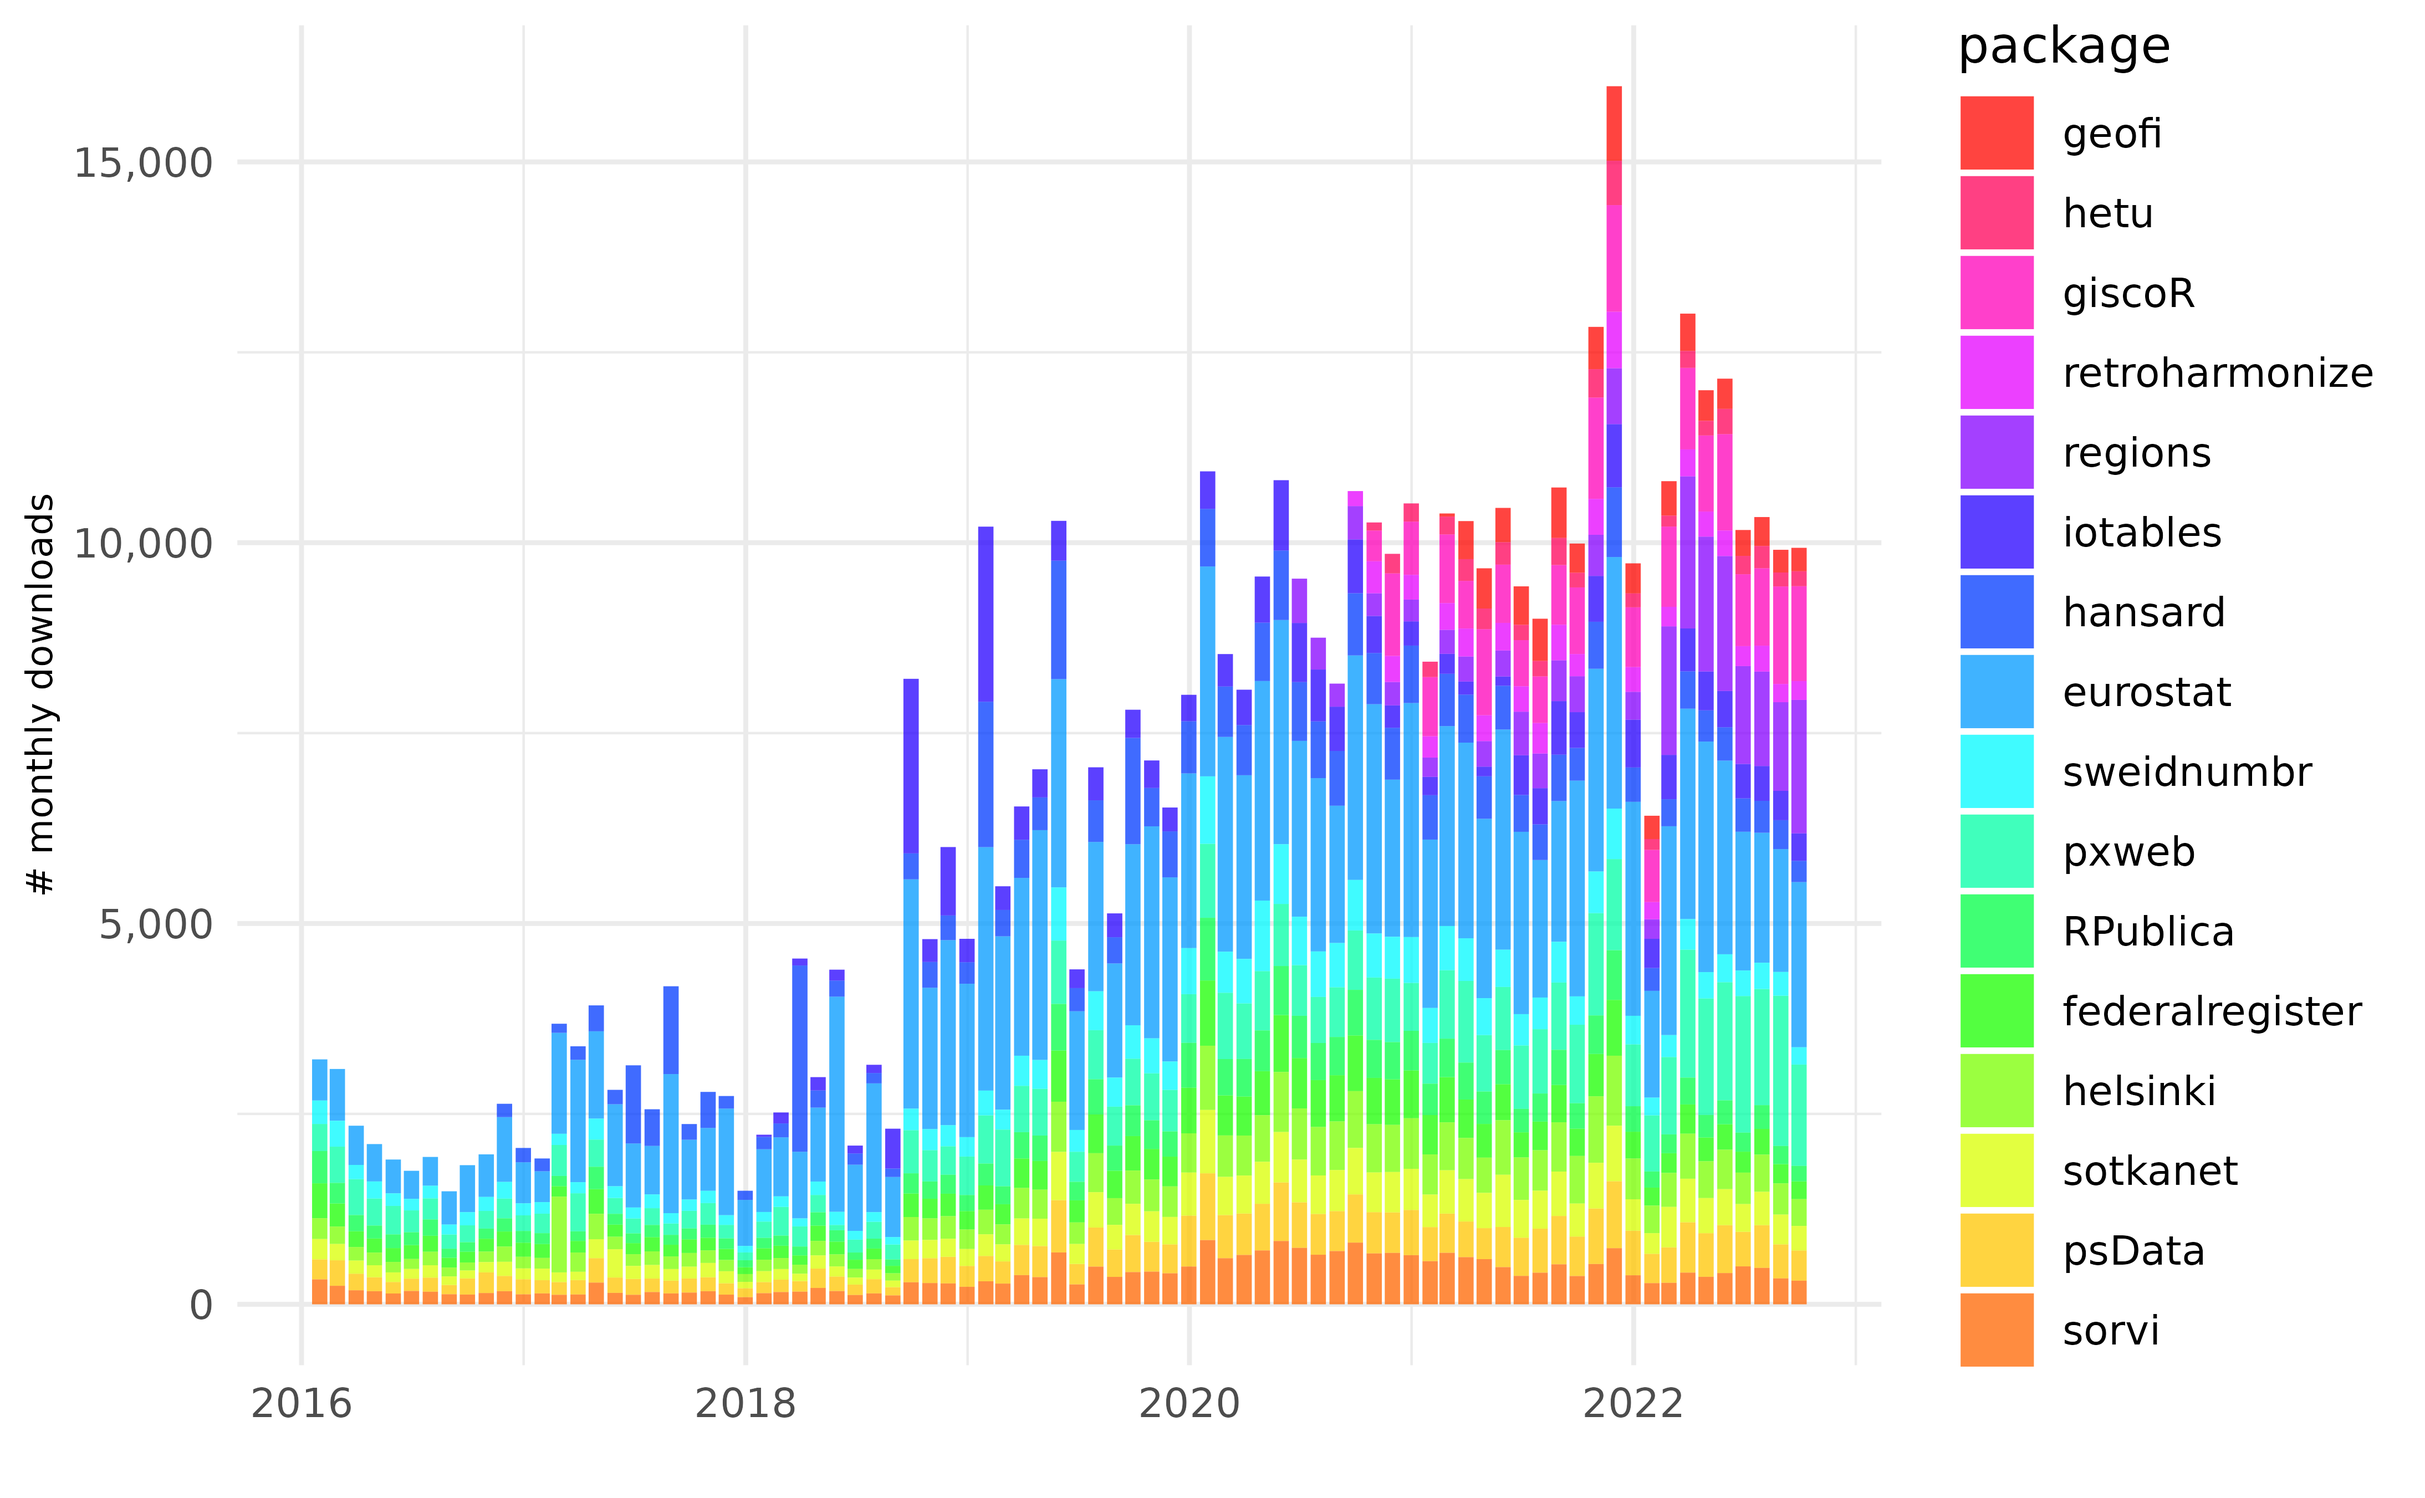
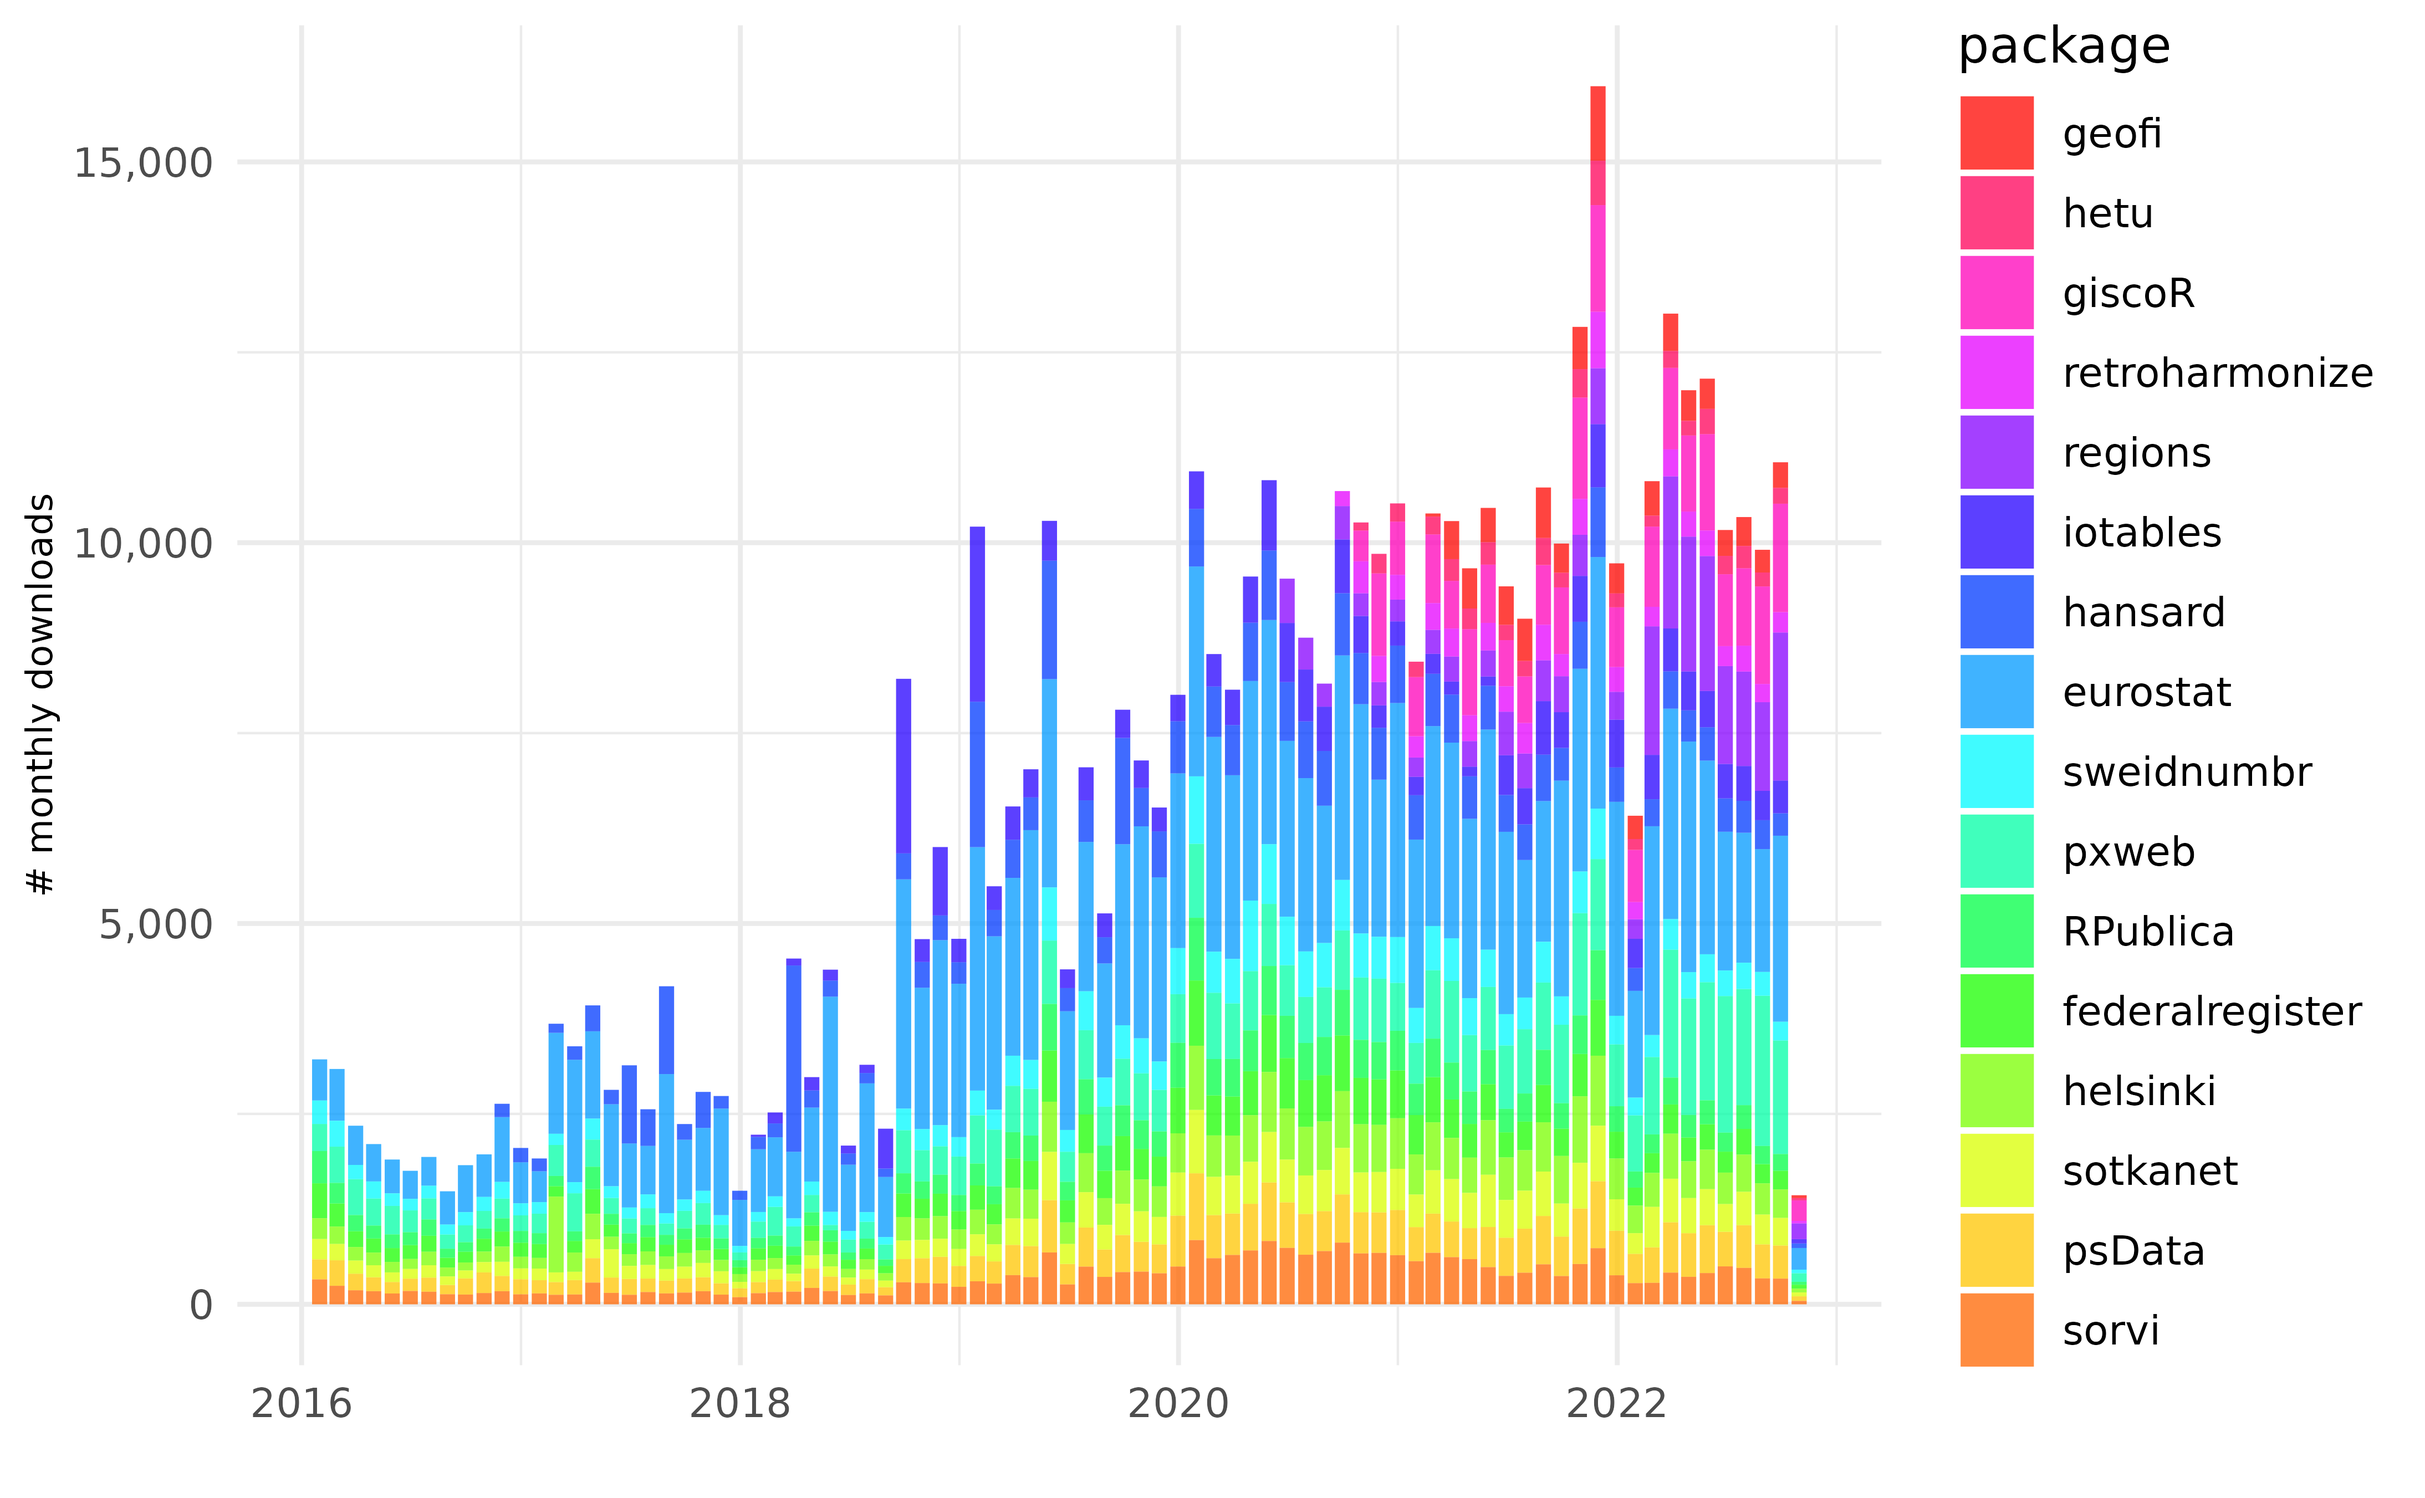
Built site for rogtemplate: 0.0.2.9000@bdcdba0

diff --git a/articles/downloads.html b/articles/downloads.html
@@ -93,7 +93,7 @@
 
     
     
-<p><em>Updated: 29 Sep 2022</em></p>
+<p><em>Updated: 06 Oct 2022</em></p>
 <p>Downloads of rOpenGov packages from CRAN.</p>
 <div class="section level2">
 <h2 id="downloads">Downloads<a class="anchor" aria-label="anchor" href="#downloads"></a>
@@ -109,7 +109,7 @@
 <h2 id="data">Data<a class="anchor" aria-label="anchor" href="#data"></a>
 </h2>
 <div id="station-table" class="reactable html-widget" style="width:auto;height:auto;"></div>
-<script type="application/json" data-for="station-table">{"x":{"tag":{"name":"Reactable","attribs":{"data":{"package":["geofi","hetu","giscoR","retroharmonize","regions","iotables","hansard","eurostat","sweidnumbr","pxweb","RPublica","federalregister","helsinki","sotkanet","psData","sorvi"],"on CRAN":["2021-02-20","2020-10-15","2020-10-05","2020-09-21","2020-06-04","2018-01-30","2016-10-31","2015-03-20","2014-09-05","2014-09-03","2014-05-09","2014-05-08","2014-04-13","2014-04-06","2014-02-23","2013-09-30"],"avg daily downloads":[15.5,8.5,31.3,11.7,24.6,16.5,18.1,60,11.7,21.2,10.3,11.5,13.2,11.5,12.8,12.1],"last day":[19,7,41,8,115,18,8,126,4,38,5,6,9,7,4,7],"last week":[77,58,314,55,404,119,58,491,47,253,43,50,82,70,88,73],"last month":[345,212,1394,273,1877,411,320,2359,262,1613,225,256,397,363,438,345],"last year":[5343,3102,13192,4154,14636,6297,5540,28798,4479,16581,3952,4307,6452,5607,6812,5052]},"columns":[{"accessor":"package","name":"package","type":"character"},{"accessor":"on CRAN","name":"on CRAN","type":"Date"},{"accessor":"avg daily downloads","name":"avg daily downloads","type":"numeric"},{"accessor":"last day","name":"last day","type":"numeric"},{"accessor":"last week","name":"last week","type":"numeric"},{"accessor":"last month","name":"last month","type":"numeric"},{"accessor":"last year","name":"last year","type":"numeric"}],"filterable":true,"searchable":true,"defaultPageSize":16,"showPageSizeOptions":true,"pageSizeOptions":[10,25,50,100],"paginationType":"jump","showPageInfo":true,"minRows":1,"striped":true,"elementId":"station-table","dataKey":"adc0d0c512302af2d226f75d5ff42686"},"children":[]},"class":"reactR_markup"},"evals":[],"jsHooks":[]}</script>
+<script type="application/json" data-for="station-table">{"x":{"tag":{"name":"Reactable","attribs":{"data":{"package":["geofi","hetu","giscoR","retroharmonize","regions","iotables","hansard","eurostat","sweidnumbr","pxweb","RPublica","federalregister","helsinki","sotkanet","psData","sorvi"],"on CRAN":["2021-02-20","2020-10-15","2020-10-05","2020-09-21","2020-06-04","2018-01-30","2016-10-31","2015-03-20","2014-09-05","2014-09-03","2014-05-09","2014-05-08","2014-04-13","2014-04-06","2014-02-23","2013-09-30"],"avg daily downloads":[15.4,8.4,31.6,11.7,24.9,16.5,18.1,60,11.7,21.3,10.3,11.5,13.2,11.5,12.8,12.1],"last day":[10,9,43,5,52,13,11,90,7,42,9,12,12,7,6,13],"last week":[60,38,409,46,313,115,72,449,61,205,49,62,68,86,92,66],"last month":[339,215,1485,261,1977,445,320,2530,265,1376,226,267,365,365,425,335],"last year":[5288,3065,13323,4098,14870,6262,5475,28685,4417,16612,3883,4234,6322,5543,6738,4995]},"columns":[{"accessor":"package","name":"package","type":"character"},{"accessor":"on CRAN","name":"on CRAN","type":"Date"},{"accessor":"avg daily downloads","name":"avg daily downloads","type":"numeric"},{"accessor":"last day","name":"last day","type":"numeric"},{"accessor":"last week","name":"last week","type":"numeric"},{"accessor":"last month","name":"last month","type":"numeric"},{"accessor":"last year","name":"last year","type":"numeric"}],"filterable":true,"searchable":true,"defaultPageSize":16,"showPageSizeOptions":true,"pageSizeOptions":[10,25,50,100],"paginationType":"jump","showPageInfo":true,"minRows":1,"striped":true,"elementId":"station-table","dataKey":"ffa80d44ac8eec081f41899369151832"},"children":[]},"class":"reactR_markup"},"evals":[],"jsHooks":[]}</script>
 </div>
   </main><aside class="col-md-3"><nav id="toc"><h2>On this page</h2>
     </nav></aside>

diff --git a/reference/rog_logo.html b/reference/rog_logo.html
@@ -121,7 +121,7 @@ would run <code><a href="https://usethis.r-lib.org/reference/use_logo.html" clas
 <span class="r-in"><span><span class="va">tmp</span> <span class="op">&lt;-</span> <span class="fu"><a href="https://rdrr.io/r/base/tempfile.html" class="external-link">tempfile</a></span><span class="op">(</span>fileext <span class="op">=</span> <span class="st">".png"</span><span class="op">)</span></span></span>
 <span class="r-in"><span><span class="fu">rog_logo</span><span class="op">(</span><span class="st">"test a package"</span>, <span class="va">tmp</span>, overwrite <span class="op">=</span> <span class="cn">FALSE</span>, favicons <span class="op">=</span> <span class="cn">FALSE</span><span class="op">)</span></span></span>
 <span class="r-msg co"><span class="r-pr">#&gt;</span> B612 Mono font loaded</span>
-<span class="r-msg co"><span class="r-pr">#&gt;</span> Logo created on /tmp/RtmpIEzwZA/file353b68041ce2.png</span>
+<span class="r-msg co"><span class="r-pr">#&gt;</span> Logo created on /tmp/Rtmpa3c17y/file396a47019971.png</span>
 <span class="r-in"><span></span></span>
 <span class="r-in"><span><span class="co"># Display</span></span></span>
 <span class="r-in"><span><span class="va">logo</span> <span class="op">&lt;-</span> <span class="fu">magick</span><span class="fu">::</span><span class="fu"><a href="https://docs.ropensci.org/magick/reference/editing.html" class="external-link">image_read</a></span><span class="op">(</span><span class="va">tmp</span><span class="op">)</span></span></span>
